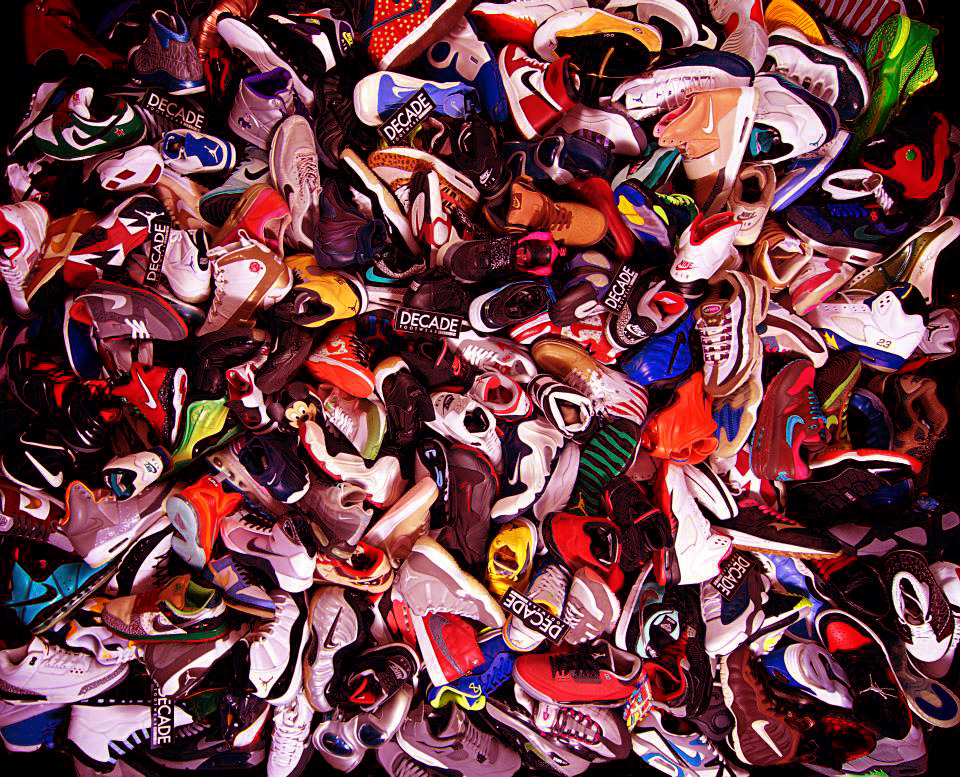
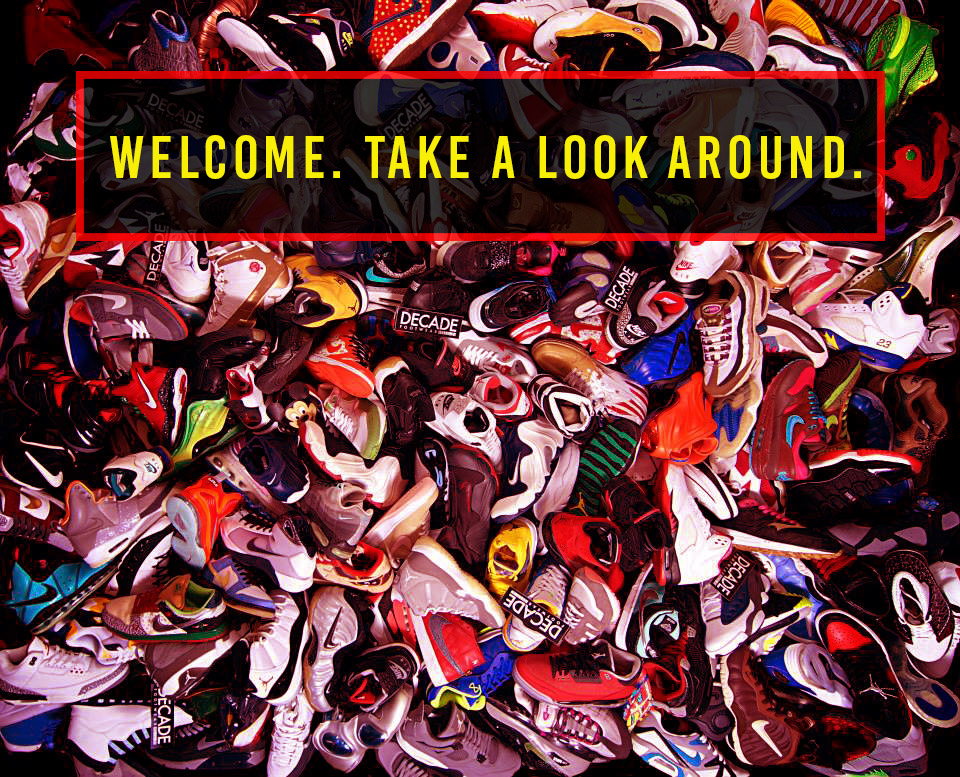
styling 2

Changed region(s): [[0.0625, 0.0927, 0.9375, 0.3089]]

diff --git a/app/assets/stylesheets/application.css b/app/assets/stylesheets/application.css
@@ -61,7 +61,10 @@ nav {
 }
 
 .usersign {
-  margin-left: 45%;
+  margin-left: 40%;
+  margin-top: 20px;
+  font-family: 'Roboto Mono', monospace;
+
   /*margin-top: 40px;*/
 }
 
@@ -70,7 +73,7 @@ nav {
 }
 
 #usernav, .usersign {
-  margin-top: 5px;
+  /*margin-top: 5px;*/
 }
 
 h1 a {
@@ -93,8 +96,9 @@ h1 {
 
 .slides {
   width: 100%;
-  height: auto;
+  min-height: 50%;
   display: inline-block;
+  z-index: 0;
 }
 
 #brandnav {
@@ -104,9 +108,14 @@ h1 {
 }
 
 footer {
-  font-family: "Arial Black";
+  font-family: 'Bungee', cursive;
   margin-top: 30px;
   background-color: red;
   padding: -10px;
   box-shadow: 0px 500px 0 500px red;
+}
+
+.floatingshoe {
+  margin-top: 70px;
+  margin-left: 30px;
 }

diff --git a/app/assets/stylesheets/sneakers.scss b/app/assets/stylesheets/sneakers.scss
@@ -5,11 +5,13 @@
 #sneakername {
   color: yellow;
   font-size: 2.5em;
+  font-family: 'Roboto', sans-serif;
+
 }
 
 p {
   color: white;
-  font-family: Arial;
+  font-family: 'Roboto', sans-serif;
 }
 
 .sneakerpic {
@@ -32,6 +34,10 @@ button {
   padding: .5px;
   font-size: 20px;
   font-weight: bold;
+}
+
+.addtocart {
+  margin: 15px;
 }
 
 h3 {

diff --git a/app/assets/stylesheets/brands.scss b/app/assets/stylesheets/brands.scss
@@ -2,9 +2,14 @@ body {
   text-align: center;
 }
 
+.welcome {
+  width: 100%;
+  height: 100%;
+}
+
 h2 {
   color: white;
-  font-family: "Arial";
+  font-family: 'Roboto Mono', monospace;
   letter-spacing: 1px;
 }
 

diff --git a/app/assets/stylesheets/orders.scss b/app/assets/stylesheets/orders.scss
@@ -26,6 +26,7 @@ h2 {
   margin: 10px;
   border-width: 5px;
   border-radius: 30px;
+  font-family: 'Roboto', sans-serif;
 }
 
 h3 {

diff --git a/app/assets/stylesheets/users.scss b/app/assets/stylesheets/users.scss
@@ -5,3 +5,7 @@
 body {
   color: white;
 }
+
+h2 {
+font-family: 'Roboto', sans-serif;
+}
